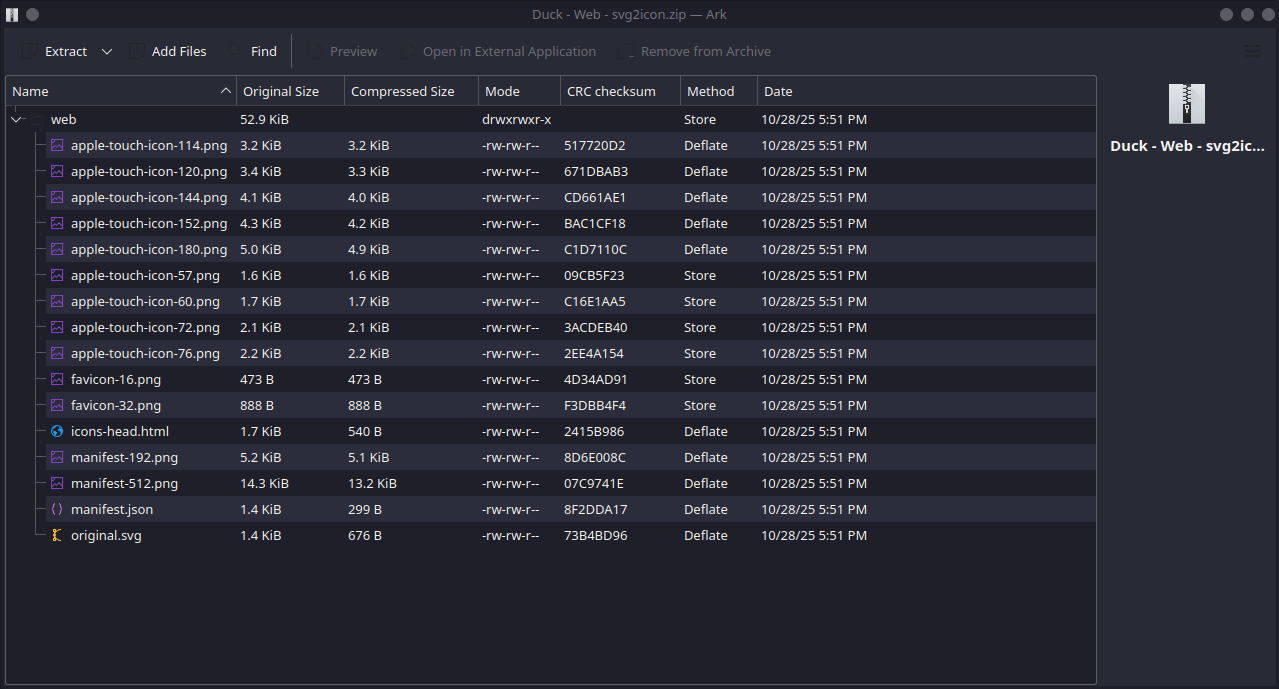
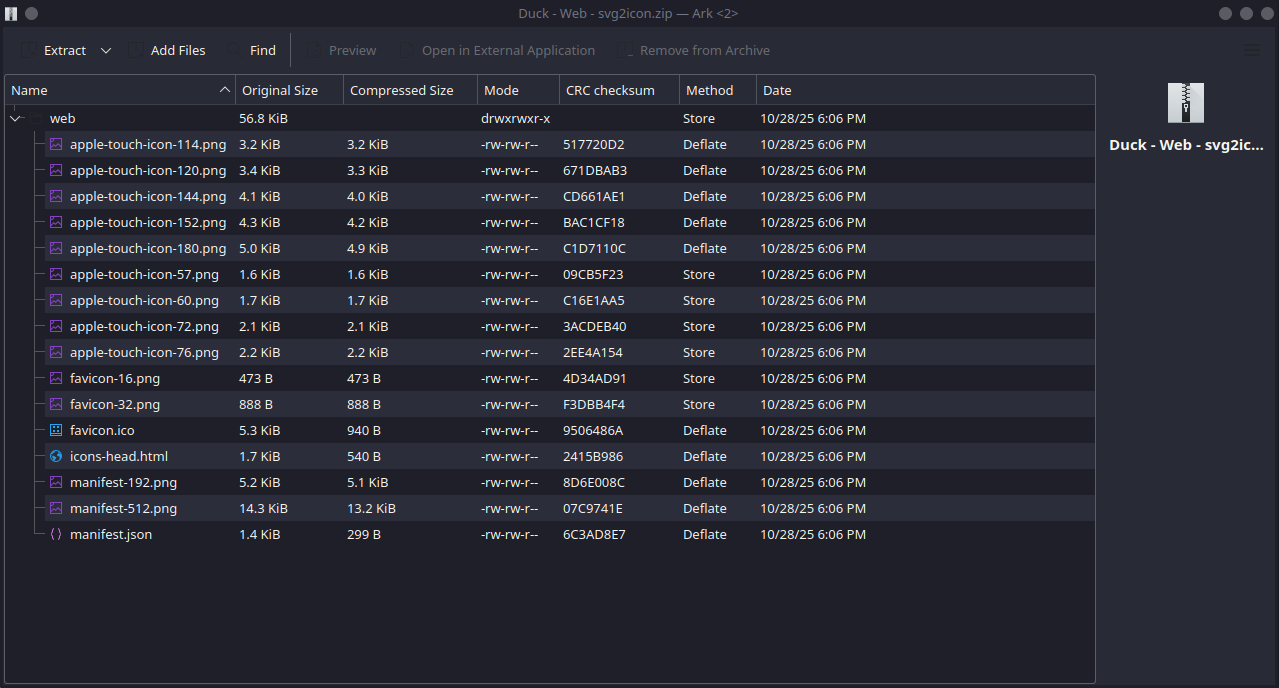
Documentation grown.

diff --git a/src/electron/main.ts b/src/electron/main.ts
@@ -158,17 +158,22 @@ export class ElectronMain {
           } as any);
         };
 
-        const copyRecursive = (src: string, dest: string) => {
+        const copyRecursive = (src: string, dest: string, skip?: (srcPath: string, destPath: string) => boolean) => {
           if (!fs.existsSync(src)) return;
           const stat = fs.statSync(src);
           if (stat.isDirectory()) {
             fs.mkdirSync(dest, { recursive: true });
             for (const entry of fs.readdirSync(src)) {
-              copyRecursive(path.join(src, entry), path.join(dest, entry));
+              const childSrc = path.join(src, entry);
+              const childDest = path.join(dest, entry);
+              if (skip && skip(childSrc, childDest)) continue;
+              copyRecursive(childSrc, childDest, skip);
             }
           } else {
             fs.mkdirSync(path.dirname(dest), { recursive: true });
-            fs.copyFileSync(src, dest);
+            if (!(skip && skip(src, dest))) {
+              fs.copyFileSync(src, dest);
+            }
           }
         };
 
@@ -221,7 +226,12 @@ export class ElectronMain {
         switch (packageType) {
           case 'web': {
             await ensureGenerated(['web']);
-            copyRecursive(path.join(baseDir, 'web-icons'), path.join(finalDest, 'web'));
+            // Exclude any legacy original.svg from web package
+            copyRecursive(
+              path.join(baseDir, 'web-icons'),
+              path.join(finalDest, 'web'),
+              (s) => path.basename(s).toLowerCase() === 'original.svg'
+            );
             break;
           }
           case 'desktop': {
@@ -243,7 +253,12 @@ export class ElectronMain {
           case 'all':
           default: {
             await ensureGenerated(['web', 'desktop', 'ios', 'android']);
-            copyRecursive(path.join(baseDir, 'web-icons'), path.join(finalDest, 'web'));
+            // Exclude any legacy original.svg from web package
+            copyRecursive(
+              path.join(baseDir, 'web-icons'),
+              path.join(finalDest, 'web'),
+              (s) => path.basename(s).toLowerCase() === 'original.svg'
+            );
             copyRecursive(path.join(baseDir, 'desktop-icons'), path.join(finalDest, 'desktop'));
             const mobileDest = path.join(finalDest, 'mobile');
             copyRecursive(path.join(baseDir, 'ios-icons'), path.join(mobileDest, 'ios-icons'));

diff --git a/src/services/IconGenerationService.ts b/src/services/IconGenerationService.ts
@@ -385,12 +385,8 @@ export class IconGenerationService {
       path.join(outputPath, 'manifest.json'),
       JSON.stringify(manifest, null, 2)
     );
-    // Also save the original SVG
-    const svgContent = Buffer.from(svgData, 'base64').toString('utf-8');
-    fs.writeFileSync(
-      path.join(outputPath, 'original.svg'),
-      svgContent
-    );
+    // Note: Do not write the original SVG into any icon package folders.
+    // The "Original" download remains available via the dedicated package type.
   }
 
   getIconTypeInfo(iconType: IconType): { name: string; description: string; badge: string } {
@@ -443,6 +439,17 @@ export class IconGenerationService {
       }
     } catch {
       // ignore errors producing favicon.ico
+    }
+
+    // Final fallback: if favicon.ico still missing, copy 32px PNG to .ico name
+    try {
+      const out = path.join(outputPath, 'favicon.ico');
+      const f32 = path.join(outputPath, 'favicon-32.png');
+      if (!fs.existsSync(out) && fs.existsSync(f32)) {
+        fs.copyFileSync(f32, out);
+      }
+    } catch {
+      // ignore
     }
 
     // icons-head.html template

diff --git a/docs/manuals/user-manual/v1.1.0/README.md b/docs/manuals/user-manual/v1.1.0/README.md
@@ -61,12 +61,18 @@ Use the sidebar to explore topics. This page gives you a friendly high‑level t
 │  │  ├─ icon-83.5@2x.png
 │  │  └─ icon-1024@1x.png
 │  └─ android-icons/
-│     ├─ mipmap-ldpi/ic_launcher.png
-│     ├─ mipmap-mdpi/ic_launcher.png
-│     ├─ mipmap-hdpi/ic_launcher.png
-│     ├─ mipmap-xhdpi/ic_launcher.png
-│     ├─ mipmap-xxhdpi/ic_launcher.png
-│     ├─ mipmap-xxxhdpi/ic_launcher.png
+│     ├─ mipmap-ldpi/
+│     │  └─ ic_launcher.png
+│     ├─ mipmap-mdpi/
+│     │  └─ ic_launcher.png
+│     ├─ mipmap-hdpi/
+│     │  └─ ic_launcher.png
+│     ├─ mipmap-xhdpi/
+│     │  └─ ic_launcher.png
+│     ├─ mipmap-xxhdpi/
+│     │  └─ ic_launcher.png
+│     ├─ mipmap-xxxhdpi/
+│     │  └─ ic_launcher.png
 │     └─ playstore-icon.png
 ├─ desktop/
 │  ├─ icon-16.png
@@ -155,7 +161,7 @@ Reference in HTML:
 | --- | --- |
 | mipmap-ldpi/ic_launcher.png | Launcher (ldpi) |
 | mipmap-mdpi/ic_launcher.png | Launcher (mdpi) |
-| mipmap-hdpi/ic_launcher.png | Launcher (hdpi) |
+| mipmap-hdpi/ic_launcher.png | Launcher (hdpi, ~1.5×) |
 | mipmap-xhdpi/ic_launcher.png | Launcher (xhdpi) |
 | mipmap-xxhdpi/ic_launcher.png | Launcher (xxhdpi) |
 | mipmap-xxxhdpi/ic_launcher.png | Launcher (xxxhdpi) |
@@ -165,7 +171,16 @@ Reference in HTML:
 ### Desktop
 | Filename | Purpose |
 | --- | --- |
-| icon-16..1024.png | App icons at common desktop sizes |
+| icon-16.png | App icon (16×16) |
+| icon-24.png | App icon (24×24) |
+| icon-32.png | App icon (32×32) |
+| icon-48.png | App icon (48×48) |
+| icon-64.png | App icon (64×64) |
+| icon-96.png | App icon (96×96) |
+| icon-128.png | App icon (128×128) |
+| icon-256.png | App icon (256×256) |
+| icon-512.png | App icon (512×512) |
+| icon-1024.png | App icon (1024×1024) |
 | icon.ico | Windows icon bundle |
 | icon.icns | macOS icon bundle |
 | manifest.json | Generated metadata for the set |

diff --git a/docs/manuals/user-manual/v1.1.0/generating-icons/desktop.md b/docs/manuals/user-manual/v1.1.0/generating-icons/desktop.md
@@ -10,22 +10,15 @@ Output folder: `desktop/`
 ## Choose Desktop
 From the project row, click the Desktop download to create the desktop package ZIP.
 
-[Image: view: app (table); arrow: Click “Desktop”; squares: Desktop button]
+![Click Desktop download](images/generating-icons/desktop/view_desktop_download_view1.png)
 
 ## Save the ZIP
 Choose where to save. Inside the ZIP you’ll find `{project}_desktop/` (a ` (n)` suffix is added when a folder already exists).
-
-[Image: view: system save dialog; arrow: File name; squares: Save button]
-
-## Success notification
-A toast appears in the bottom‑right when generation completes.
-
-[Image: view: app; arrow: Toast message; squares: bottom‑right toast]
+ 
 
 ## Extract and use
 Open the ZIP, then go to `desktop/` to find PNGs and platform icon files.
 
-[Image: view: file manager showing desktop/; arrow: 1) PNG sizes; 2) icon.ico; 3) icon.icns (if present)]
+![ZIP file dialog](images/generating-icons/desktop/zipfile_view2.png)
 
-> Technical Stuff: Platform icon availability
-> Some platform icon formats (like ICNS) may not be included on all systems. If a format is missing, your PNGs and any available ICO remain usable.
+> Technical Stuff: Some platform icon formats (like ICNS) may not be included on all systems. If a format is missing, your PNGs and any available ICO remain usable.

diff --git a/docs/manuals/user-manual/v1.1.0/generating-icons/mobile.md b/docs/manuals/user-manual/v1.1.0/generating-icons/mobile.md
@@ -9,24 +9,19 @@ Output folder: `mobile/`
 ## Choose Mobile
 From the project row, click the Mobile download to create the mobile package ZIP.
 
-[Image: view: app (table); arrow: Click “Mobile”; squares: Mobile button]
+![Click Mobile download](images/generating-icons/mobile/view-mobile-download-button-view1.png)
 
 ## Save the ZIP
 Choose where to save. The file name follows your selection:
 - Folder name inside the ZIP: `{project}_mobile` (a ` (n)` suffix is added if a folder already exists)
 
-[Image: view: system save dialog; arrow: File name; squares: Save button]
-
-## Success notification
-After the package is ready, a toast appears in the bottom‑right.
-
-[Image: view: app; arrow: Toast message; squares: bottom‑right toast]
+ 
 
 ## Extract and use
 Open the ZIP, then go to `mobile/`:
 - `ios-icons/` contains iOS icon sizes
 - `android-icons/` contains Android launcher densities
 
-[Image: view: file manager showing mobile/; arrow: 1) ios-icons/; 2) android-icons/]
+![ZIP file dialog](images/generating-icons/mobile/zipfile-view2.png)
 
 > Tip: Keep your original SVG handy (download from the project row’s “SVG” button) if you plan to update the icon later.

diff --git a/docs/manuals/user-manual/v1.1.0/generating-icons/all-in-one.md b/docs/manuals/user-manual/v1.1.0/generating-icons/all-in-one.md
@@ -11,19 +11,12 @@ Bundle includes:
 ## Choose All
 From the project row, click the All download to create the all‑in‑one package ZIP.
 
-[Image: view: app (table); arrow: Click “All”; squares: All button]
+![Click All download](images/generating-icons/all-in-one/view_all_download_view1.png)
 
 ## Save the ZIP
 Choose where to save. Inside the ZIP you’ll find `{project}_all/` (a ` (n)` suffix is added if a folder already exists).
 
-[Image: view: system save dialog; arrow: File name; squares: Save button]
-
-## Success notification
-After generation completes, a toast appears in the bottom‑right.
-
-[Image: view: app; arrow: Toast message; squares: bottom‑right toast]
-
 ## Extract and use
 Open the ZIP and review `web/`, `desktop/`, `mobile/`, and `svg/` in one place.
 
-[Image: view: bundle root folder; arrow: 1) web/; 2) desktop/; 3) mobile/; 4) svg/]
+![ZIP file dialog](images/generating-icons/all-in-one/zipfile_view2.png)
